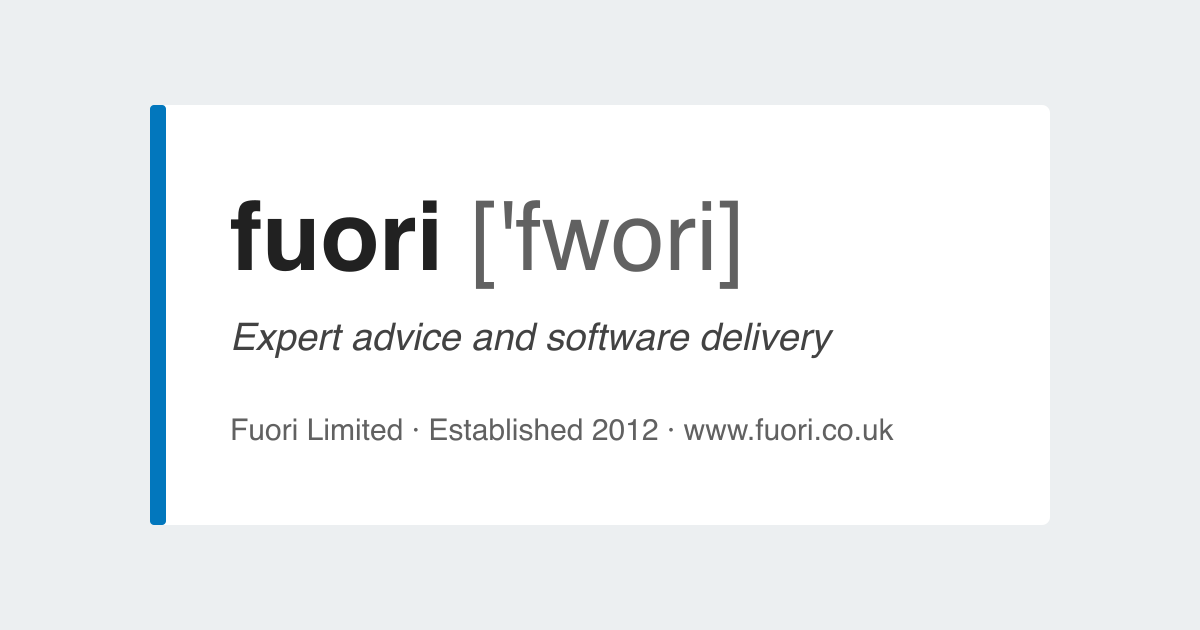
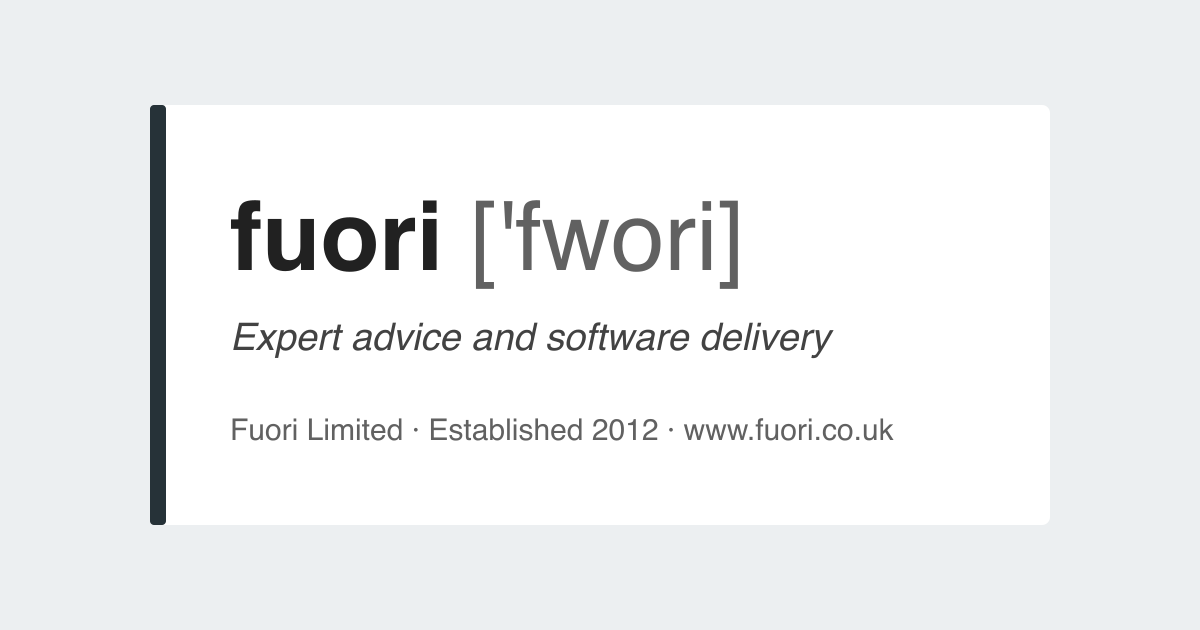
style: switch accent colour from blue to charcoal
Favicon, button and social image accent now #263238 (white text 13.2:1);
dark-mode button #b0bec5 with black text (11.0:1).

Changed region(s): [[0.1233, 0.1508, 0.1542, 0.8444]]

diff --git a/public/styles.css b/public/styles.css
@@ -4,7 +4,7 @@
   --card-bg: #ffffff;
   --text: rgba(0, 0, 0, 0.87);
   --text-muted: rgba(0, 0, 0, 0.64);
-  --link-bg: #0277bd;
+  --link-bg: #263238;
   --link-text: #ffffff;
   --shadow: 0 1px 3px rgba(0, 0, 0, 0.12), 0 1px 2px rgba(0, 0, 0, 0.24);
 }
@@ -15,7 +15,7 @@
     --card-bg: #1e1e1e;
     --text: rgba(255, 255, 255, 0.87);
     --text-muted: rgba(255, 255, 255, 0.7);
-    --link-bg: #4fc3f7;
+    --link-bg: #b0bec5;
     --link-text: #000000;
     --shadow: 0 1px 3px rgba(0, 0, 0, 0.6), 0 1px 2px rgba(0, 0, 0, 0.8);
   }
